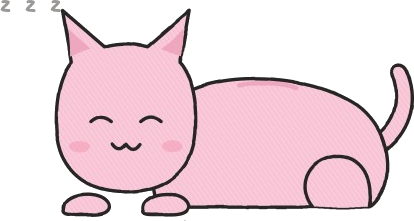
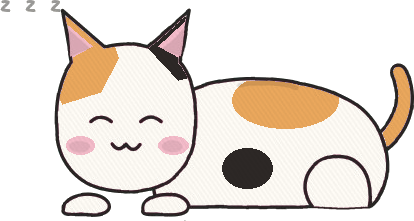
Calico sleeping cat on Insights; catalog opens on Product Management; 'Start here' guides on Workshop and Pro; boba-tea LinkedIn button; Fraunces About text; friendlier buttons; Find-skills scroll offset

diff --git a/assets/style.css b/assets/style.css
@@ -504,3 +504,32 @@ a.cat-cta:hover .cat-click img { transform: rotate(-6deg) translateY(-4px); }
 .ins-card-title { font-family: 'Fraunces', serif; font-weight: 600; font-size: 1.08rem; line-height: 1.25; }
 .nl-logo { width: clamp(150px, 18vw, 210px); height: auto; border-radius: 0; box-shadow: none; background: none; filter: drop-shadow(0 8px 10px rgba(26,15,7,.12)); }
 .nl-head { align-items: center; }
+
+/* ── round 5 ── */
+/* boba-tea button */
+.btn-boba { background: #D9B48C; border-color: #D9B48C; color: #3B2416; box-shadow: 0 6px 14px -8px rgba(59,36,22,.6); }
+.btn-boba:hover { background: #C99C6E; border-color: #C99C6E; color: #2A190E; }
+
+/* About text in a clearer serif (Fraunces, already used for skill names) */
+.about-head .lede, .about p { font-family: 'Fraunces', serif; font-weight: 400; font-variation-settings: "opsz" 14; line-height: 1.7; }
+.about p { font-size: 1.1rem; }
+
+/* "Find skills for me" lands with "Start from who you are" in view */
+#who { scroll-margin-top: 96px; }
+@media (max-width: 820px) { #who { scroll-margin-top: 16px; } }
+
+/* guide arrows */
+@keyframes guidePulse { 0%, 100% { transform: translateY(0); opacity: 1; } 50% { transform: translateY(-5px); opacity: .55; } }
+.guide-wrap { position: relative; display: inline-flex; }
+.guide-tip { position: absolute; bottom: calc(100% + 6px); left: 50%; transform: translateX(-50%); white-space: nowrap;
+  font-family: 'Inter', sans-serif; font-weight: 600; font-size: .78rem; color: #fff; background: var(--accent); padding: .2rem .6rem; border-radius: 10px;
+  animation: guidePulse 1.3s ease-in-out infinite; pointer-events: none; }
+.guide-tip::after { content: ''; position: absolute; left: 50%; top: 100%; margin-left: -5px; border: 5px solid transparent; border-top-color: var(--accent); }
+.col-chip-guide { border-color: var(--accent); color: var(--accent); box-shadow: 0 0 0 3px rgba(196,86,42,.15); animation: chipGlow 1.3s ease-in-out infinite; }
+@keyframes chipGlow { 50% { box-shadow: 0 0 0 6px rgba(196,86,42,.08); } }
+.col-nav { margin-top: 2.6rem; }
+.plan-custom { position: relative; border: 2px solid var(--accent); }
+.plan-guide { position: absolute; top: -2.1rem; left: 50%; transform: translateX(-50%); white-space: nowrap;
+  font-family: 'Inter', sans-serif; font-weight: 600; font-size: .8rem; color: #fff; background: var(--accent); padding: .25rem .7rem; border-radius: 10px; animation: guidePulse 1.3s ease-in-out infinite; }
+.plan-guide::after { content: ''; position: absolute; left: 50%; top: 100%; margin-left: -5px; border: 5px solid transparent; border-top-color: var(--accent); }
+.plans { padding-top: 2.4rem; }

diff --git a/assets/app.js b/assets/app.js
@@ -90,7 +90,8 @@
     const index = JSON.parse(indexEl.textContent);
     const chips = $$('[data-filter-field]');
     const params = new URLSearchParams(location.search);
-    let field = params.get('field') || 'all';
+    // landing on the catalog shows Product Management first; 'All' shows everything (Social Science first)
+    let field = params.get('field') || (params.get('q') ? 'all' : 'product');
     if (params.get('q')) q.value = params.get('q');
 
     // Chinese and shorthand → English search words

diff --git a/build.py b/build.py
@@ -188,7 +188,7 @@ def lamp(site):
     <textarea id="fbMsg" name="message" rows="4" required placeholder="This page / skill would be better if…"></textarea>
     <label class="sr-only" for="fbEmail">Email (optional)</label>
     <input id="fbEmail" name="email" type="email" placeholder="Email, if you'd like a reply (optional)">
-    <button class="btn btn-ink" type="submit">Send feedback</button>
+    <button class="btn btn-ink" type="submit">Send it my way 💌</button>
     <p class="form-note" role="status"></p>
   </form>
 </div>"""
@@ -220,7 +220,7 @@ def page(path, title, description, body, site, active="", extra_head=""):
 <link rel="apple-touch-icon" href="{url('assets/grace-cat.png')}">
 <link rel="preconnect" href="https://fonts.googleapis.com">
 <link rel="preconnect" href="https://fonts.gstatic.com" crossorigin>
-<link href="https://fonts.googleapis.com/css2?family=Fraunces:opsz,wght@9..144,500;9..144,600&family=Instrument+Serif:ital@0;1&family=Inter:wght@300;400;500;600&family=JetBrains+Mono:wght@400;500&display=swap" rel="stylesheet">
+<link href="https://fonts.googleapis.com/css2?family=Fraunces:opsz,wght@9..144,400;9..144,500;9..144,600&family=Instrument+Serif:ital@0;1&family=Inter:wght@300;400;500;600&family=JetBrains+Mono:wght@400;500&display=swap" rel="stylesheet">
 <link rel="stylesheet" href="{url('assets/style.css')}">
 {extra_head}
 </head>
@@ -503,7 +503,7 @@ def build_insights(issues, site):
     grid = "".join(f"""<a class="ins-card" href="{e(i['url'])}" target="_blank" rel="noopener">{cover(i)}<span class="ins-card-body"><span class="ins-date">{fmt_date(i.get('date'))}</span><span class="ins-card-title">{e(i['title'])}</span></span></a>""" for i in issues[1:])
     body = f"""
 <section class="page-head nl-head">
-  <img class="nl-logo" src="{url('assets/signals-cat.png')}" alt="A sleeping pink cat, the mascot of Signals Across Markets" width="207" height="110">
+  <img class="nl-logo" src="{url('assets/signals-cat.png')}" alt="A sleeping calico cat, the mascot of Signals Across Markets" width="207" height="110">
   <div>
     <p class="eyebrow">Insights · from my LinkedIn newsletter</p>
     <h1>Signals Across Markets</h1>
@@ -525,7 +525,7 @@ def article_card(r, big=True):
 
 def build_resources(resources, site):
     columns = [c for c in site.get("resource_columns", []) if any(r["column"] == c["key"] for r in resources)]
-    nav = "".join(f'<a class="col-chip" href="#{c["key"]}">{e(c["name"])}</a>' for c in columns)
+    nav = "".join((f'<span class="guide-wrap"><span class="guide-tip" aria-hidden="true">Start here ↓</span><a class="col-chip col-chip-guide" href="#{c["key"]}">{e(c["name"])}</a></span>' if c["key"] == "how-skills-work" else f'<a class="col-chip" href="#{c["key"]}">{e(c["name"])}</a>') for c in columns)
     sections = ""
     for c in columns:
         items = [r for r in resources if r["column"] == c["key"]]
@@ -592,7 +592,8 @@ def build_pro(pro, site):
             cta = f'<button class="btn btn-accent" type="button" data-open-form="consult">{e(p.get("cta", "Get in touch"))}</button>'
         else:
             cta = f'<button class="btn btn-line" type="button" data-open-form="waitlist" data-plan="{e(p["name"])}">Join the waitlist</button>'
-        return f"""<div class="plan{' plan-hi' if p.get('highlight') else ''}">
+        guide = '<span class="plan-guide" aria-hidden="true">Need something specific? ↓</span>' if p.get("form") else ""
+        return f"""<div class="plan{' plan-hi' if p.get('highlight') else ''}{' plan-custom' if p.get('form') else ''}">{guide}
   <p class="eyebrow">{e(p['name'])}</p><p class="price">{e(p['price'])}</p><p class="muted">{e(p.get('note', ''))}</p>
   <ul>{''.join(f'<li>{e(x)}</li>' for x in p.get('includes', []))}</ul>{cta}</div>"""
     skills_html = "".join(f"""<div class="card card-static"><span class="corner-badge">In Library Pass</span><span class="card-hole" aria-hidden="true"></span><span class="card-top"><span class="call">SC-{n:02d}</span><span class="card-field">{e(x.get('field', ''))}</span><span class="stamp stamp-pro">{e(x.get('status', 'Coming soon'))}</span></span><span class="card-title">{e(x['name'])}</span><span class="card-tag">{e(x.get('tagline', ''))}</span><span class="card-sum">{e(x.get('summary', ''))}</span>{f'<span class="card-stages">{e(x["stages"])}</span>' if x.get('stages') else ''}</div>""" for n, x in enumerate(pro.get("skills", []), 1))
@@ -634,7 +635,7 @@ def build_about(skills, site):
     <p class="eyebrow">About the librarian</p>
     <h1>Hi, I'm Grace.</h1>
     <p class="lede">I'm a sociologist (UCL; MSc Sociology, Oxford) who studies how AI and digital technologies reshape the way we know, work and live.</p>
-    <div class="hero-cta"><a class="btn btn-accent" href="{LINKEDIN}">Connect with me on LinkedIn</a><a class="btn btn-line" href="{PERSONAL_SITE}">Visit my personal site ↗</a></div>
+    <div class="hero-cta"><a class="btn btn-boba" href="{LINKEDIN}">Connect with me on LinkedIn</a><a class="btn btn-line" href="{PERSONAL_SITE}">Visit my personal site ↗</a></div>
   </div>
   <img class="about-cat" src="{url('assets/grace-cat-cutout-480.png')}" alt="Grace's avatar: a calico cat drinking bubble tea" width="300" height="457">
 </section>
